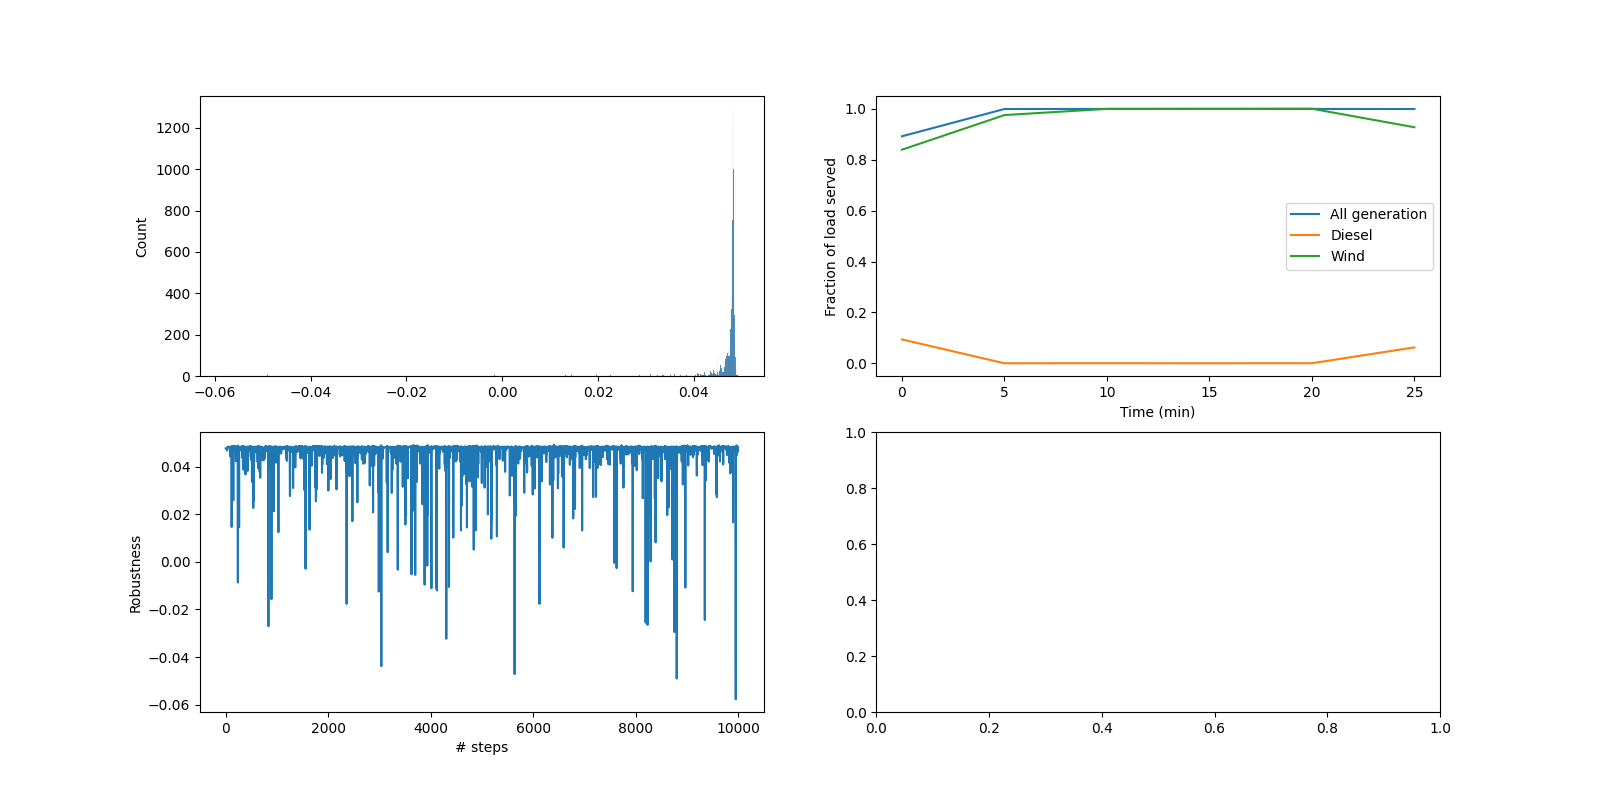
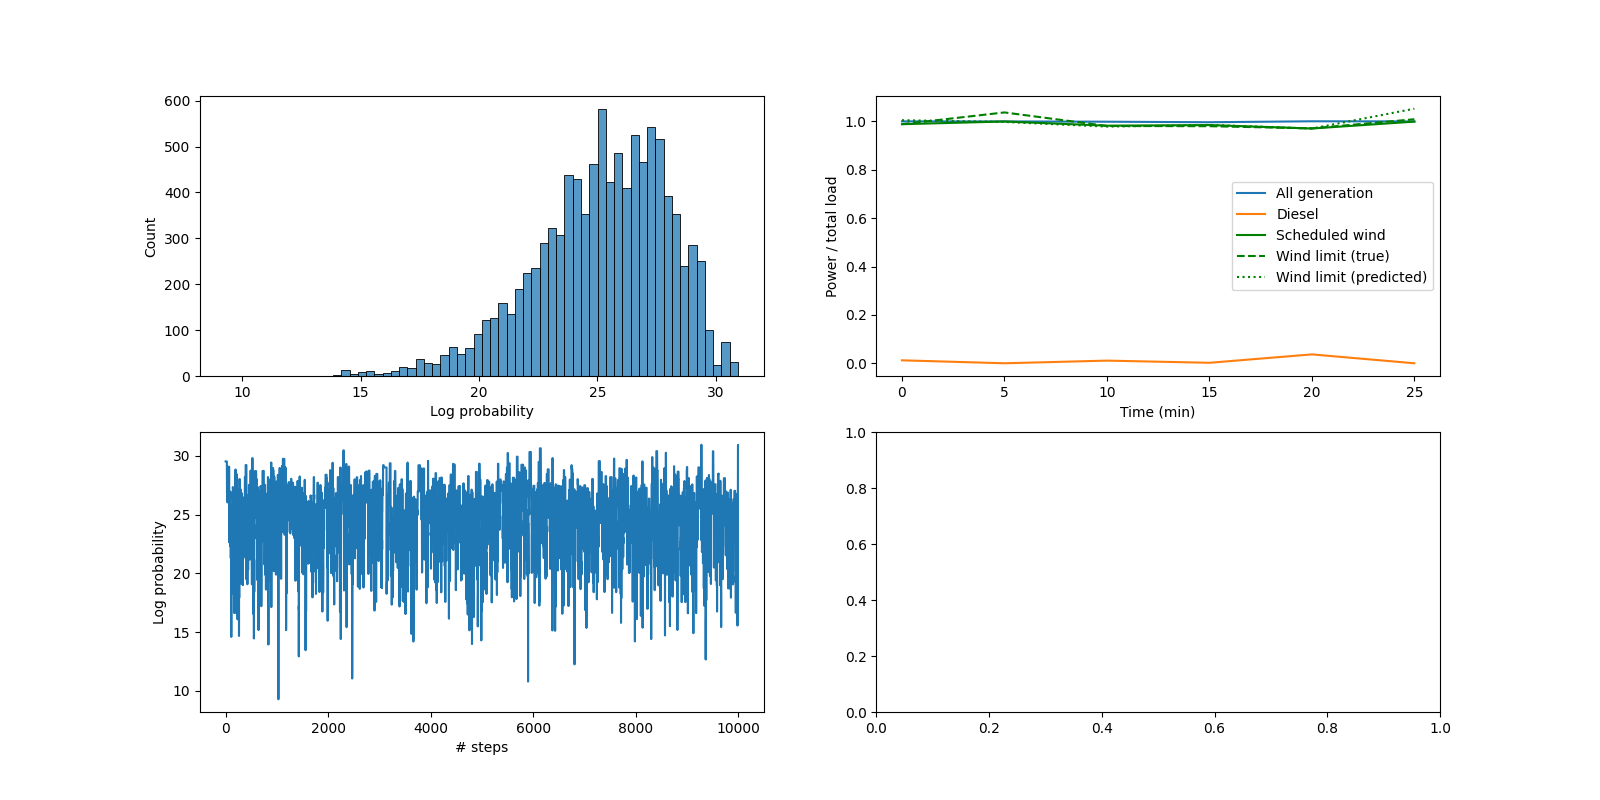
More experimentation

diff --git a/architect/experiments/power_systems/three_bus/3_bus_contingency.py b/architect/experiments/power_systems/three_bus/3_bus_contingency.py
@@ -193,8 +193,8 @@ if __name__ == "__main__":
     exogenous_filter_spec = ep_filter_spec(sys)
 
     # Compile log likelihood functions
-    prediction_error_stddev = 0.05
-    wind_generation_limits_stddev = 0.05
+    prediction_error_stddev = 0.2
+    wind_generation_limits_stddev = 0.2
     smoothing = 1e3
     prior_logprob, posterior_logprob = make_logprob_fns(
         sys,
@@ -207,7 +207,7 @@ if __name__ == "__main__":
 
     # Make a MALA kernel for MCMC sampling
     mala_step_size = 2e-3
-    n_samples = 2_0
+    n_samples = 10_000
     n_chains = 2
     mala = blackjax.mala(
         lambda x: prior_logprob(x) + posterior_logprob(x), mala_step_size
@@ -311,4 +311,6 @@ if __name__ == "__main__":
     worst_ax.set_ylabel("Power / total load")
     worst_ax.legend()
 
-    plt.savefig(f"plts/dispatch/3bus/{n_samples}_steps_lr_{mala_step_size:0.1e}.png")
+    plt.savefig(
+        f"plts/dispatch/3bus/sigma_2e-1_{n_samples}_steps_lr_{mala_step_size:0.1e}.png"
+    )
